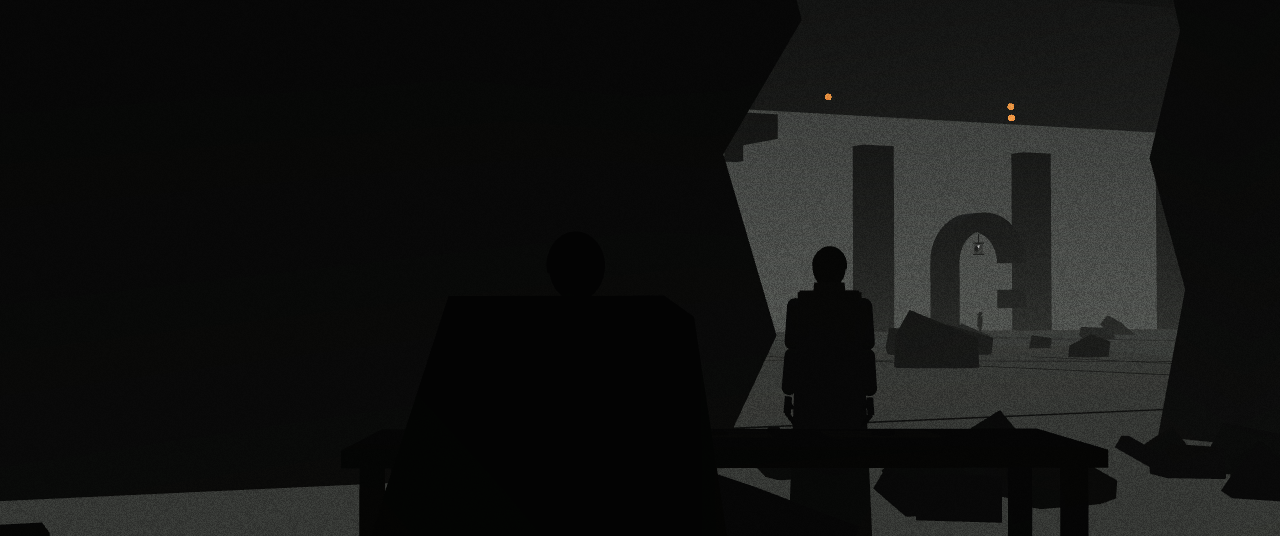
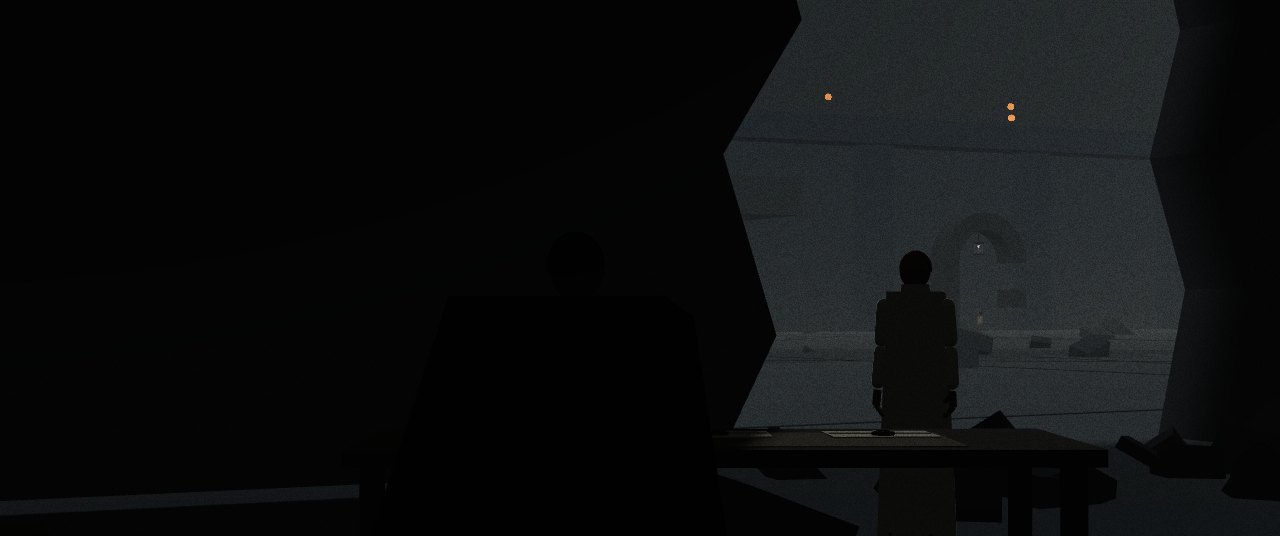
Crownfall: King of Kings storyboard: board engine and sets, work in progress
Claude-Session: https://claude.ai/code/session_01Ufmw2t4zwmXuTeew9W7e51

diff --git a/claude-game/crownfall-king-of-kings/board/sets/solforiz.js b/claude-game/crownfall-king-of-kings/board/sets/solforiz.js
@@ -18,7 +18,7 @@ export const L = {
   forecourt: { x0: -140, x1: 140, z0: -90, z1: -3 },
   stairFoot: [54, 0, -84], stairTop: [30, 12, -84], stairZ: [-90, -78],  // lower flight climbs west along the tier-0 face
   arch: { x: 70, z: -76, span: 3.4, h: 5.6, depth: 1.3 },   // the signal station: opening faces +z (the gate)
-  block: { x: 52.4, z: -85.4, y: 5.4, w: 3.2, h: 1.8, d: 2.4 },  // held over Liora at the stair foot; from the parapet above
+  block: { x: 52.4, z: -85.4, y: 4.6, w: 3.2, h: 1.6, d: 2.4 },  // held over Liora at the stair foot; from the parapet above
   innerWall: { z: -92, y: 12, h: 10, gateX: 24, gateW: 8 },  // on the lip of tier 0, gate at the top of the lower flight
   tiers: Array.from({ length: 8 }, (_, k) => ({ k, hw: 330 - 31 * k, front: -90 - 45 * k, back: -790 + 45 * k, top: 12 + 24 * k })),
   greatStair: { hw: 12 },                                // the central flights, x -12..12, from tier 0 up to tier 7
@@ -34,7 +34,7 @@ export const crownFront = () => L.crown.z + L.crown.d / 2;
 // ---------------------------------------------------------------- the plain of fused glass and the causeway
 export function buildPlain(E, W, o = {}) {
   const env = o.envMap ?? null;
-  const glass = E.mat(o.glass ?? (o.ruined ? '#262624' : '#141c22'));
+  const glass = E.mat(o.glass ?? (o.ruined ? '#262624' : '#18212a'));
   const g = new THREE.PlaneGeometry(30000, 30000, 1, 1);
   const m = E.mesh(g, glass, W, 0, L.plainY, 0, { cast: false });
   m.rotation.x = -Math.PI / 2;
@@ -49,7 +49,7 @@ export function buildPlain(E, W, o = {}) {
 }
 export function buildCauseway(E, W, o = {}) {
   const b = new E.Batch('causeway');
-  const road = E.mat(o.road ?? (o.ruined ? '#3e3a34' : '#3e4a52')), side = E.mat('#1d252b');
+  const road = E.mat(o.road ?? (o.ruined ? '#3e3a34' : '#4d5a62')), side = E.mat('#1d252b');
   const len = L.causeway.len, w = L.causeway.w;
   b.box(w, 1.2, len, road, 0, -0.6, len / 2 + 2);
   b.box(w + 5, 0.9, len, side, 0, -0.75, len / 2 + 2);          // the embankment shoulder
@@ -130,7 +130,9 @@ export function buildGatehouse(E, W, o = {}) {
   const wallGeo = E.extrude(outline.map(p => [p[0], p[1]]), th, { holes: [hole.slice().reverse()] });
   b.add(wallGeo, stone, E.M4(0, 0, G.z0 - th / 2));
   // floor and a broken roof (open over the breach side)
-  b.box(G.x1 - G.x0 + 2 * th, 0.3, G.z1 - G.z0 + 2 * th, inner, (G.x0 + G.x1) / 2, -0.15, (G.z0 + G.z1) / 2);
+  const fb = new E.Batch('gatehouse-floor');
+  fb.box(G.x1 - G.x0 + 2 * th, 0.3, G.z1 - G.z0 + 2 * th, E.mat('#1c1d1f', { rough: 0.95 }), (G.x0 + G.x1) / 2, -0.15, (G.z0 + G.z1) / 2);
+  fb.build(W).forEach(m => { m.userData.ground = true; });
   b.box(G.x1 - G.x0 + 2 * th, 0.8, 9.5, stone, (G.x0 + G.x1) / 2, h + 0.4, G.z1 - 3.6);
   b.box(6, 0.8, 6.4, stone, G.x0 + 2.4, h + 0.4, G.z0 + 2.6, 0.05, 0.1, 0.03);
   b.box(4.2, 0.6, 3.2, stone, G.x1 - 3.3, h + 0.2, G.z0 + 1.2, 0.18, -0.2, 0.25);   // a slab sagging into the room
@@ -140,7 +142,6 @@ export function buildGatehouse(E, W, o = {}) {
   b.box(0.3, 6.4, 0.3, E.mat('#15181b'), L.truceLamp[0], h + 3.2, L.truceLamp[2]);
   b.box(1.6, 0.18, 0.18, E.mat('#15181b'), L.truceLamp[0] + 0.7, h + 6.4, L.truceLamp[2]);
   const meshes = b.build(W);
-  meshes.forEach(m => { m.userData.ground = m.material === inner; });
   // interior props
   const ctx = { meshes };
   if (o.interior) Object.assign(ctx, buildGatehouseInterior(E, W, o));
@@ -216,7 +217,7 @@ export function buildForecourt(E, W, o = {}) {
 export function buildBattery(E, W, o = {}) {
   const guns = [];
   // state.battery = {at: [x, z], spacing: [dx, dz], face: [x, z]} moves the three guns (default: the forecourt)
-  const iron = E.mat('#121416', { rough: 0.55, metal: 0.55, rim: true });
+  const iron = E.mat('#0c0d0f', { rough: 0.8 });
   for (const [x, z] of L.battery) {
     const g = new THREE.Group(); g.position.set(x, 0, z); g.rotation.y = Math.atan2(0 - x, L.crown.z - z); W.add(g);
     const b = new E.Batch('gun');
@@ -350,9 +351,11 @@ export function buildInnerWall(E, W, o = {}) {
   b.box(I.gateW + 2, 3, 3.4, stone, I.gateX, I.y + h - 1.5, I.z);           // lintel over the gate
   if (!o.ruined) for (let x = -hw + 2; x < hw; x += 4) b.box(2, 1.6, 3.2, stone, x, I.y + h + 0.8, I.z);   // merlons
   // the parapet cornice over the stair foot: the block tears loose from here (key p.6, top left)
-  b.box(34, 1.4, 6.5, stone, 46, I.y - 0.2, -88.6);
-  b.box(34, 3.2, 3, stone, 46, I.y + 1.6, -89.6);
-  for (let x = 30; x < 63; x += 3.4) b.box(0.8, 1.6, 0.8, stone, x, I.y - 1.4, -86.2);   // corbels under it
+  // the gallery: a terrace slab projecting from the tier-0 face over the stair foot ("the terrace above her",
+  // key p.6 top left). Underside at y = 6.6, front edge at z = -82.6; the block tears loose from its edge.
+  b.box(17, 0.9, 7.6, stone, 54.5, 7.05, -86.4);
+  b.box(17, 1.2, 0.6, stone, 54.5, 8.1, -82.9);
+  for (let x = 47; x < 63; x += 3) b.box(0.7, 2.2, 0.9, stone, x, 5.5, -89.4);   // corbels under it
   b.build(W);
   // the gate leaves (shut / open 0..1)
   const leaves = [];
@@ -400,7 +403,8 @@ export function buildZiggurat(E, W, o = {}) {
       hb.box(w, hh, d, r() < 0.5 ? house : houseD, x, t.top + hh / 2, z, 0, (r() < 0.2 ? 0.2 : 0), 0);
       if (r() < 0.35) hb.box(w * 0.6, hh * 0.6, d * 0.6, house, x + (r() - 0.5) * 2, t.top + hh + hh * 0.3, z);
     }
-    const meshes = [...b.build(W), ...hb.build(W)];
+    const tm = b.build(W); tm.forEach(m => { m.userData.ground = true; });
+    const meshes = [...tm, ...hb.build(W)];
     tiers.push({ k, meshes });
   }
   return { tiers };

diff --git a/claude-game/crownfall-king-of-kings/board/engine.js b/claude-game/crownfall-king-of-kings/board/engine.js
@@ -48,7 +48,10 @@ const U = {
 THREE.ShaderChunk.fog_pars_vertex = `
 #ifdef USE_FOG
   varying float vFogDepth;
-  varying vec3 vFogWorld;
+  #ifndef FOG_WORLD_DECLARED
+    #define FOG_WORLD_DECLARED
+    varying vec3 vFogWorld;
+  #endif
 #endif`;
 THREE.ShaderChunk.fog_vertex = `
 #ifdef USE_FOG
@@ -59,7 +62,10 @@ THREE.ShaderChunk.fog_pars_fragment = `
 #ifdef USE_FOG
   uniform vec3 fogColor;
   varying float vFogDepth;
-  varying vec3 vFogWorld;
+  #ifndef FOG_WORLD_DECLARED
+    #define FOG_WORLD_DECLARED
+    varying vec3 vFogWorld;
+  #endif
   uniform vec4 uHaze;
   uniform vec3 uHazeColor;
   uniform vec4 uFogSun;
@@ -95,6 +101,26 @@ THREE.ShaderChunk.fog_fragment = `
   }
   gl_FragColor.rgb = mix( gl_FragColor.rgb, fogCol, fogFactor );
 #endif`;
+// interiors: a box where the sky fill is mostly blocked (the gatehouse is lit by its breach alone, two stops under).
+// Fragments inside uIntMin..uIntMax get the hemisphere fill scaled by uIntFill; the key light is shadowed as usual.
+U.uIntMin = { value: new THREE.Vector3(1e9, 1e9, 1e9) }; U.uIntMax = { value: new THREE.Vector3(-1e9, -1e9, -1e9) }; U.uIntFill = { value: 1 };
+THREE.ShaderChunk.lights_pars_begin = THREE.ShaderChunk.lights_pars_begin + `
+#if defined( USE_FOG ) && !defined( FOG_WORLD_DECLARED )
+  #define FOG_WORLD_DECLARED
+  varying vec3 vFogWorld;
+#endif
+uniform vec3 uIntMin; uniform vec3 uIntMax; uniform float uIntFill;
+float interiorFill() {
+  #ifdef USE_FOG
+    vec3 a = smoothstep( uIntMin - 0.6, uIntMin + 0.6, vFogWorld ) * ( 1.0 - smoothstep( uIntMax - 0.6, uIntMax + 0.6, vFogWorld ) );
+    return mix( 1.0, uIntFill, a.x * a.y * a.z );
+  #else
+    return 1.0;
+  #endif
+}`;
+THREE.ShaderChunk.lights_fragment_begin = THREE.ShaderChunk.lights_fragment_begin.replace(
+  'irradiance += getHemisphereLightIrradiance( hemisphereLights[ i ], geometryNormal );',
+  'irradiance += getHemisphereLightIrradiance( hemisphereLights[ i ], geometryNormal ) * interiorFill();');
 const RIM_DECL = 'uniform vec3 uRimColor;\nuniform vec3 uRimDir;\nuniform float uRimPow;\n';
 const RIM_CODE = `{ vec3 rn = normalize( normal ); vec3 rv = normalize( vViewPosition );
   float rimE = pow( 1.0 - abs( dot( rn, rv ) ), uRimPow );
@@ -346,7 +372,7 @@ function placeCamera(c) {
   const pos = new THREE.Vector3(...c.pos), tgt = new THREE.Vector3(...c.target);
   const dist = pos.distanceTo(tgt);
   camera.fov = focalToVfov(c.f ?? 35);
-  camera.near = c.near ?? Math.min(Math.max(0.01 * dist, 0.05), 3);
+  camera.near = c.near ?? (dist < 40 ? 0.08 : 0.3);   // set cam.near for anything nearer than 0.3 m in a wide
   camera.far = c.far ?? 40000;
   camera.position.copy(pos);
   camera.up.set(0, 1, 0);
@@ -444,6 +470,9 @@ function applyLook(L) {
   postU.uLift.value.copy(C(L.lift ?? '#000000')); postU.uSat.value = L.sat ?? 1;
   const D = L.dust ?? { mode: 'none' };
   dust.cfg = D;
+  const I = L.interior ?? E.ctx?.interior;
+  if (I) { U.uIntMin.value.set(...I.min); U.uIntMax.value.set(...I.max); U.uIntFill.value = I.fill ?? 0.08; }
+  else { U.uIntMin.value.set(1e9, 1e9, 1e9); U.uIntMax.value.set(-1e9, -1e9, -1e9); U.uIntFill.value = 1; }
 }
 
 // ---------------------------------------------------------------- state: keyframes, clocks, resolution

diff --git a/claude-game/crownfall-king-of-kings/board/sets/gatehouse.js b/claude-game/crownfall-king-of-kings/board/sets/gatehouse.js
@@ -16,7 +16,7 @@ const PRESETS = {
     state: {
       figures: {
         cael: { pos: [18.95, -9.0], face: [21.6, -11.8], pose: 'stand', lean: 12, reachR: sealB },
-        envoy: { pos: [22.15, -12.45], face: [17.5, -6.5], pose: 'stand', look: 'cael.head' },
+        envoy: { pos: [23.1, -12.9], face: [17.5, -7.5], pose: 'stand', look: 'cael.head' },
         boy: { pos: boyUnderArch, face: 200, pose: 'stand' },
       },
       door: 0,
@@ -30,15 +30,15 @@ const PRESETS = {
       look: 'burning', truce: 'gone', lamps: { level: 0 },
       crown: { shutter: 5.72, fire: 1, through: 0 },
       warp: [{ at: [0, L.crown.opening.y + 1.2, L.crown.z + L.crown.d / 2 + 2], r: 22, amp: 0.6 }],
-      figures: { cael: { pos: [28.6, -17.2], face: 175, pose: 'stand', aimR: [0, L.crown.opening.y + 1, L.crown.z + 32], palmR: 'out', handR: 1, shake: 0.6, blood: 0.7 } },
+      figures: { cael: { pos: [29.0, -14.1], face: [0, L.crown.z], pose: 'stand', aimR: [0, L.crown.opening.y + 1, L.crown.z + 32], palmR: 'out', handR: 1, shake: 0.6, blood: 0.7 } },
     },
-    cam: { pos: [29.6, 1.5, -12.6], target: [16, 64, -230], f: 24 },
+    cam: { pos: [30.5, 0.9, -11.5], target: [-85.4, 104.3, -323.6], f: 21 },
   },
   // 6.3 the open hand, "it destroys": the insert, matched to 3.4, 10.3 and 10.10
   hand63: {
     state: {
       look: 'burning', truce: 'gone', lamps: { level: 0 }, crown: { shutter: 5.72, fire: 1 },
-      figures: { cael: { pos: [28.6, -17.2], face: 175, aimR: [0, L.crown.opening.y + 1, L.crown.z + 32], palmR: 'out', handR: 1, shake: 0.6, blood: 0.7 } },
+      figures: { cael: { pos: [29.0, -14.1], face: [0, L.crown.z], aimR: [0, L.crown.opening.y + 1, L.crown.z + 32], palmR: 'out', handR: 1, shake: 0.6, blood: 0.7 } },
       hand: { attach: 'cael', side: 'R', style: 'cael', open: 1, shake: 0.6, blood: 0.7 },
     },
     cam: { hand: true, f: 50 },
@@ -54,7 +54,7 @@ export default {
   look: 'gatehouse',
   marks: { ...CITY_MARKS, table: [TABLE.x, TABLE.h, TABLE.z], sealA: [SEALS[0].x, SEALS[0].y, SEALS[0].z], sealB, sealC: [SEALS[2].x, SEALS[2].y, SEALS[2].z],
     door: [16, 0, -9.6], breachCentre: [27.8, 3.5, -18], stretcherA: [29.0, -6.2], stretcherB: [26.2, -5.0], boyUnderArch: [...boyUnderArch] },
-  build(E, o = {}) { const ctx = buildCity(E, { ...o, interior: true }); ctx.presets = PRESETS; return ctx; },
+  build(E, o = {}) { const ctx = buildCity(E, { ...o, interior: true }); ctx.presets = PRESETS; ctx.interior = { min: [15.4, -1, -18.7], max: [32.6, 8.6, -2.4], fill: 0.02 }; return ctx; },
   update(E, R, t, ctx) { updateCity(E, R, t, ctx); },
   beforeRender: cityBeforeRender,
 };

diff --git a/claude-game/crownfall-king-of-kings/board/sets/looks.js b/claude-game/crownfall-king-of-kings/board/sets/looks.js
@@ -36,9 +36,9 @@ export const LOOKS = {
     palette: ['#474E56', '#787D7F', '#A9ABA4', '#1B1C1E', '#D7D8D2'],
     sky: { zenith: '#6f7477', mid: '#8f9291', horizon: '#A9ABA4', midAt: 0.1, topAt: 0.5 },
     fog: { color: '#9c9e99', density: 0.0105 },
-    haze: { amount: 0.03, base: 0, falloff: 3, color: '#8b8e8b' },
-    key: { color: '#c4c8c8', intensity: 0.25, dir: [0.25, 1, 0.4], soft: 10 },
-    fill: { sky: '#b9bcba', ground: '#3d4247', intensity: 1.25 },
+    haze: { amount: 0.006, base: 0, falloff: 4, color: '#8b8e8b' },
+    key: { color: '#c4c8c8', intensity: 0.2, dir: [0.25, 1, 0.4], soft: 10 },
+    fill: { sky: '#a9acaa', ground: '#2a2e32', intensity: 0.55 },
     exposure: 1, grain: 0.035,
     dust: { mode: 'streak', color: '#D7D8D2', opacity: 0.55, speed: 2.2, streak: 0.55, count: 1800, size: [14, 12, 12], drift: 0.05 },
   },
@@ -46,10 +46,10 @@ export const LOOKS = {
   gatehouse: {
     palette: ['#0A0A0C', '#424445', '#A3A9A9', '#8A8C88', '#D8CFB8'],
     sky: { zenith: '#868d90', mid: '#9aa0a0', horizon: '#A3A9A9', midAt: 0.15, topAt: 0.6 },
-    fog: { color: '#a0a6a6', density: 0.00125 },
-    haze: { amount: 0.012, base: 0, falloff: 5, color: '#8A8C88' },
-    key: { color: '#c7cdce', intensity: 1.6, dir: [0.42, 0.42, -1], soft: 4 },
-    fill: { sky: '#3a3d3f', ground: '#0c0c0e', intensity: 0.07 },
+    fog: { color: '#a0a6a6', density: 0.0032 },
+    haze: { amount: 0.004, base: 0, falloff: 6, color: '#8A8C88' },
+    key: { color: '#c7cdce', intensity: 1.6, dir: [0.6, 0.5, -1], soft: 4 },
+    fill: { sky: '#a3a9a9', ground: '#5a5c5b', intensity: 2.6 },
     exposure: 1, grain: 0.05,
     dust: { mode: 'fall', color: '#a3a9a9', opacity: 0.25, px: 1.2, speed: 0.25, count: 500, size: [10, 6, 10] },
   },
@@ -68,8 +68,8 @@ export const LOOKS = {
   burning: {
     palette: ['#050303', '#5B2C14', '#C96A25', '#E69A45', '#FFF6DD'],
     sky: { zenith: '#3e1d0e', mid: '#7a3a17', horizon: '#c06326', ground: '#5B2C14', midAt: 0.1, topAt: 0.42 },
-    fog: { color: '#a9551f', density: 0.0011, sun: { amount: 0.45, color: '#E69A45' } },
-    haze: { amount: 0.02, base: 0, falloff: 20, color: '#d07a35' },
+    fog: { color: '#a9551f', density: 0.0024, sun: { amount: 0.45, color: '#E69A45' } },
+    haze: { amount: 0.01, base: 0, falloff: 12, color: '#d98a40' },
     key: { color: '#ff9c50', intensity: 1.1, dir: [0.05, 0.25, -1], soft: 3 },
     fill: { sky: '#3a1a0c', ground: '#120805', intensity: 0.08 },
     rim: { color: '#E69A45', strength: 1.3, power: 3 },

diff --git a/claude-game/crownfall-king-of-kings/board/sets/forecourt.js b/claude-game/crownfall-king-of-kings/board/sets/forecourt.js
@@ -8,21 +8,21 @@ import { buildCity, updateCity, cityBeforeRender, CITY_MARKS } from './city.js';
 import { L } from './solforiz.js';
 
 const B = L.block, A = L.arch;
-const lioraAt = [B.x + 0.1, B.z + 0.4], caelAt = [B.x + 7.8, B.z + 1.6];
+const lioraAt = [B.x + 0.1, B.z + 0.4], caelAt = [B.x + 4.9, B.z + 10.0];
 const PRESETS = {
   // bible p.6 key 3: Liora low under the stopped block, dust falling past it, Cael ten paces off with his hand open
   heldStone: {
     state: {
       block: { y: B.y, rot: [6, 18, -5] },
-      dust: { center: [B.x, 6, B.z + 1], size: [9, 12, 8] },
+      dust: { center: [B.x + 1, 4, B.z + 2], size: [12, 9, 9], count: 520, opacity: 0.4 },
       warp: [{ at: [B.x, B.y, B.z], r: 2.2, amp: 0.5 }],
       figures: {
         liora: { pos: lioraAt, face: 160, pose: 'cower' },
-        boy: { pos: [B.x - 1.1, B.z + 0.9], face: 140, pose: 'stand', reachR: 'liora.waist' },
+        boy: { pos: [B.x - 0.9, B.z + 0.8], face: 140, pose: 'stand' },
         cael: { pos: caelAt, face: [B.x, B.z], pose: 'stand', aimR: [B.x, B.y, B.z], palmR: 'out', handR: 1, shake: 0.3, blood: 0 },
       },
     },
-    cam: { pos: [B.x + 0.2, 1.05, B.z + 26], target: [B.x + 1.6, 4.6, B.z], f: 32 },
+    cam: { pos: [B.x + 2.5, 0.95, B.z + 18.1], target: [B.x + 2.5, 4.05, B.z], f: 24 },
   },
   // 3.4 the open hand, "it saves" (bible p.13): the same insert as 6.3, 10.3 and 10.10
   hand34: {

diff --git a/claude-game/crownfall-king-of-kings/board/sets/city.js b/claude-game/crownfall-king-of-kings/board/sets/city.js
@@ -166,16 +166,16 @@ const PRESETS = {
   breakCrown: {
     t: 2.42,
     state: {
-      look: 'breakCrown', truce: 'gone', lamps: { level: 1, breathe: 0 }, crown: { shutter: 0, fire: 0.15 },
-      battery: { at: [-72, 452], spacing: [13, -3] },
+      look: 'breakCrown', truce: 'gone', lamps: { level: 1, breathe: 0 }, crown: { shutter: 0, fire: 0 }, flashPower: 1600,
+      battery: { at: [-52.5, 492], spacing: [0.6, -10.5] },
       salvos: [{ side: 'aethelgard', t: 2.3, spread: 0.04, flight: 2.6, to: 'crown' }, { side: 'aethelgard', t: 0.8, spread: 0.2, flight: 2.6, to: 'crown', seed: 1 },
         { side: 'arcade', t: 2.0, guns: 5, spread: 0.07, flight: 2.0, to: 'lines', tracers: false }],
       figures: {
-        captain: { pos: [-55.5, 437], face: [0, -440], pose: 'stand', aimR: [-30, 200, -440], palmR: 'out', handR: 1 },
-        bearer: { pos: [-53.5, 436.5], face: [0, -440], banner: 'upright' },
+        captain: { pos: [-45.2, 476.5], face: [0, -440], pose: 'stand', aimR: [-30, 200, -440], palmR: 'out', handR: 1 },
+        bearer: { pos: [-43.4, 475.6], face: [0, -440], banner: 'upright' },
       },
     },
-    cam: { pos: [-38, 1.0, 486], target: [-6, 60, -260], f: 24 },
+    cam: { pos: [-40, 1.0, 520], target: [-110, 62.6, -277], f: 24 },
   },
 };
 
